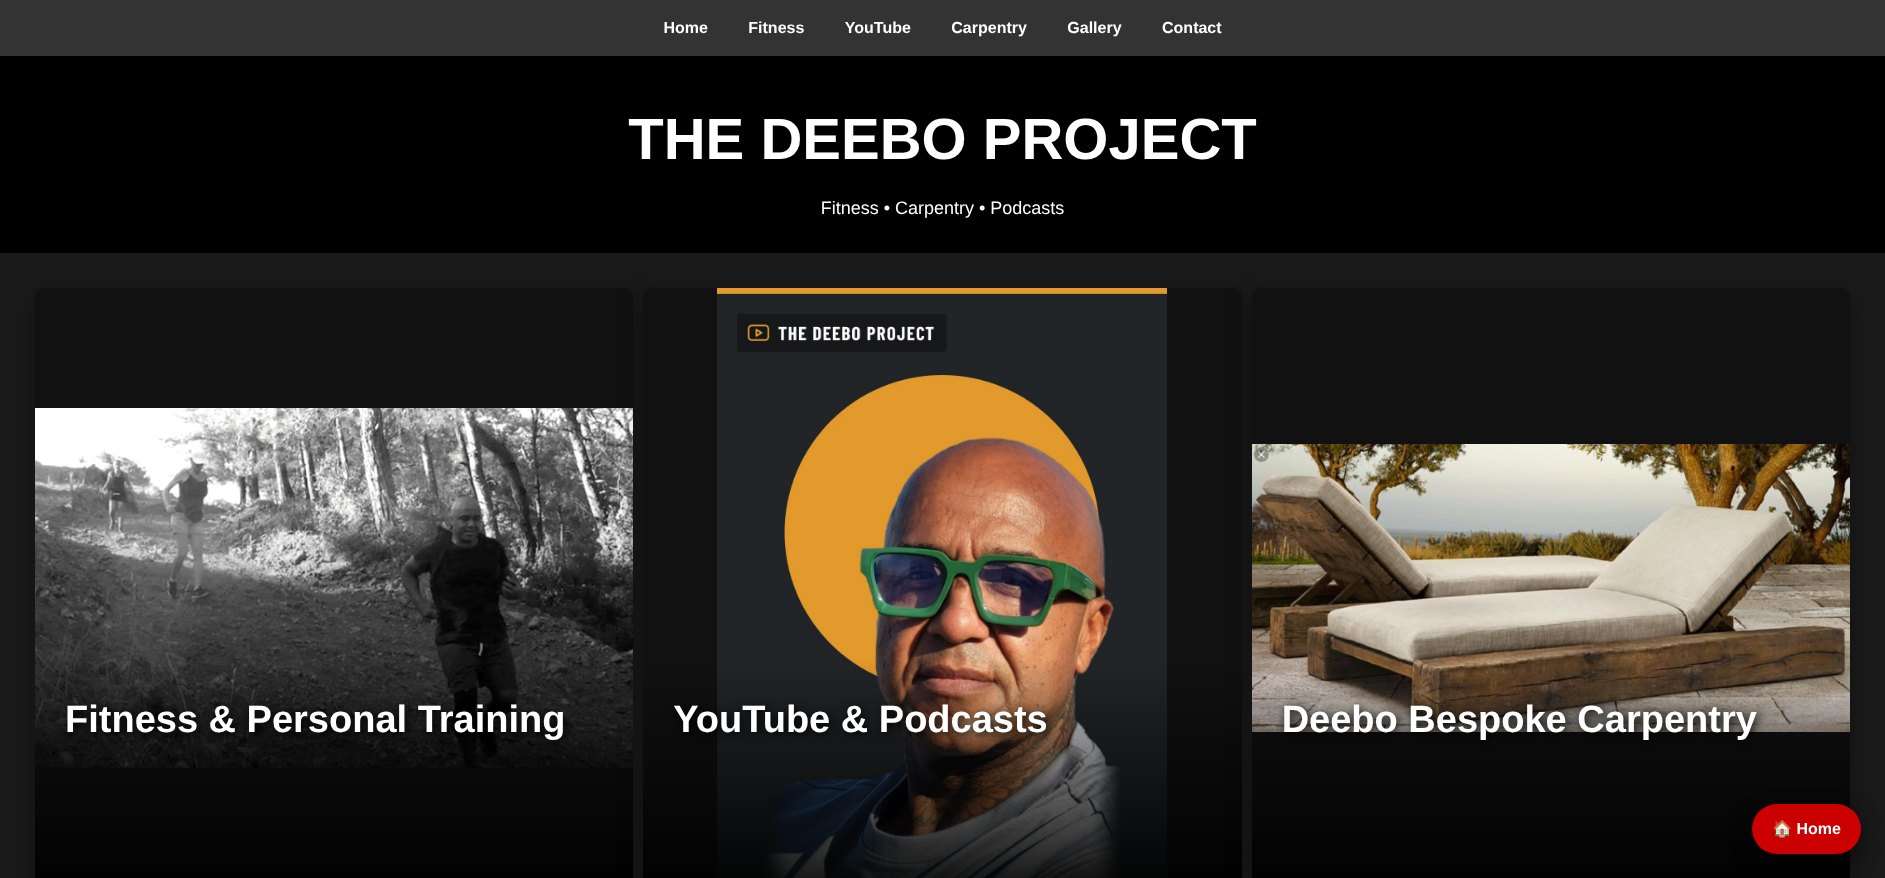
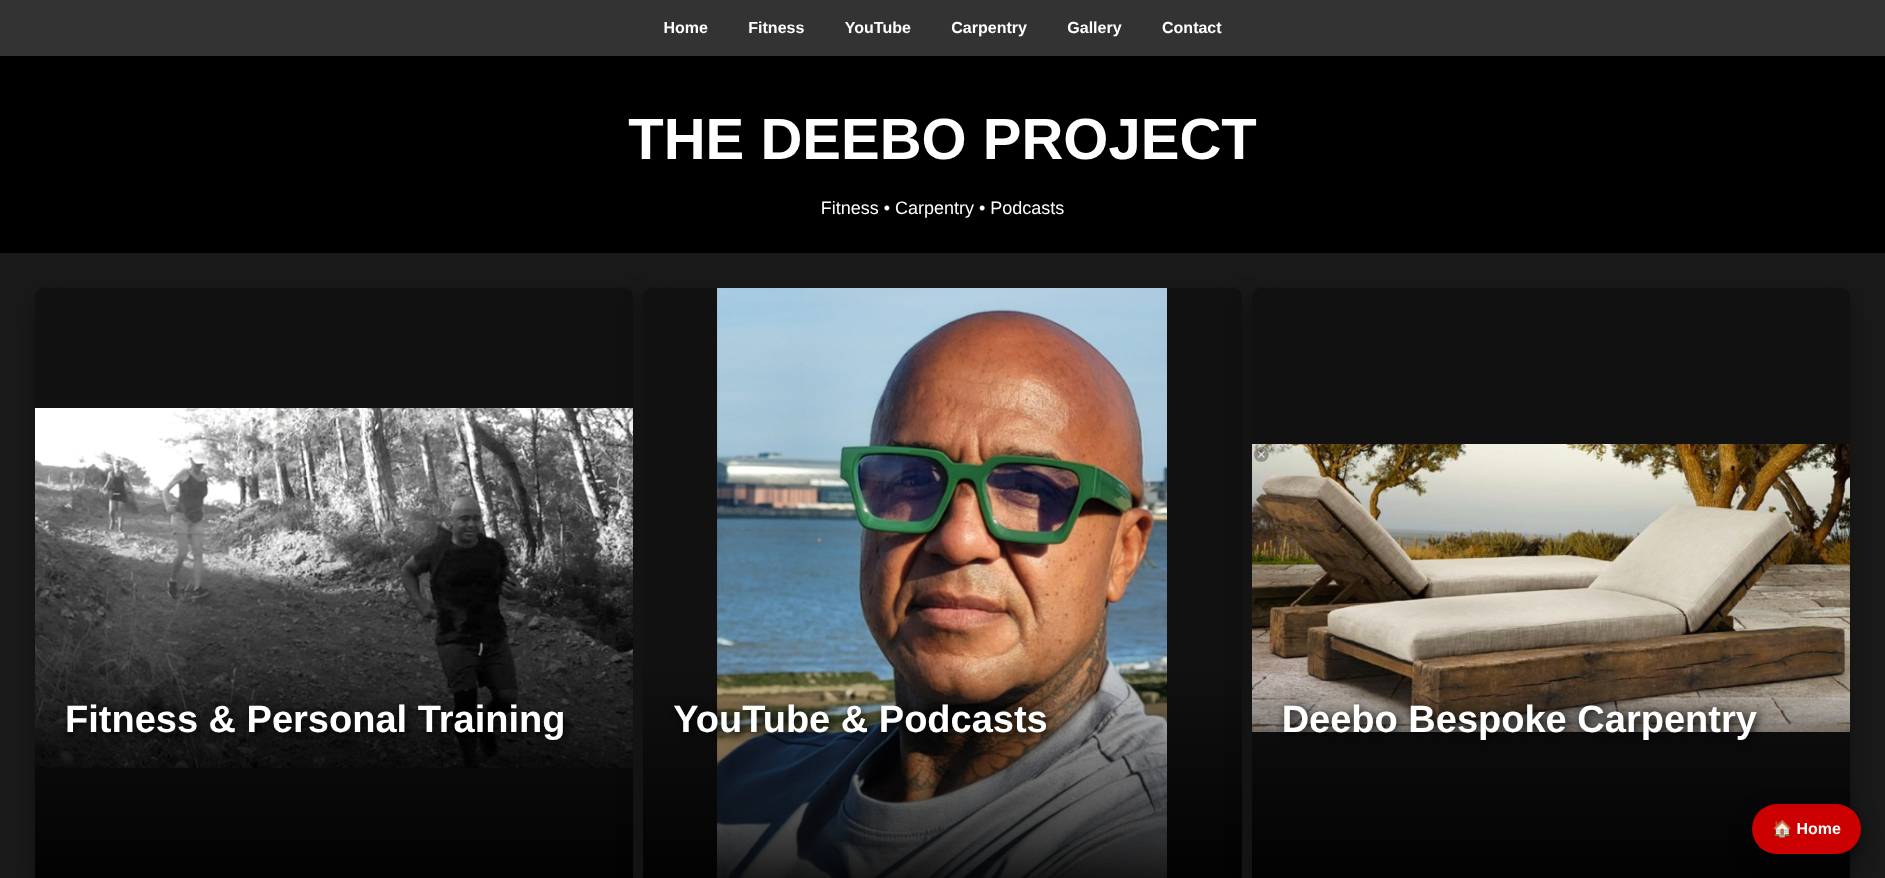
Refresh Deebo Project portfolio screenshot
Claude-Session: https://claude.ai/code/session_014XBX35JU8cmv1FCVg4uKPd

Changed region(s): [[0.3692, 0.3075, 0.6462, 1.0]]

diff --git a/index.html b/index.html
@@ -220,7 +220,7 @@
   <div class="portfolio-grid">
     <div class="portfolio-card">
       <a href="https://thedeeboproject.com" target="_blank" rel="noopener noreferrer">
-        <img src="deebo-project.jpeg.png?v=3" alt="The Deebo Project website">
+        <img src="deebo-project.jpeg.png?v=4" alt="The Deebo Project website">
       </a>
 
       <div>
